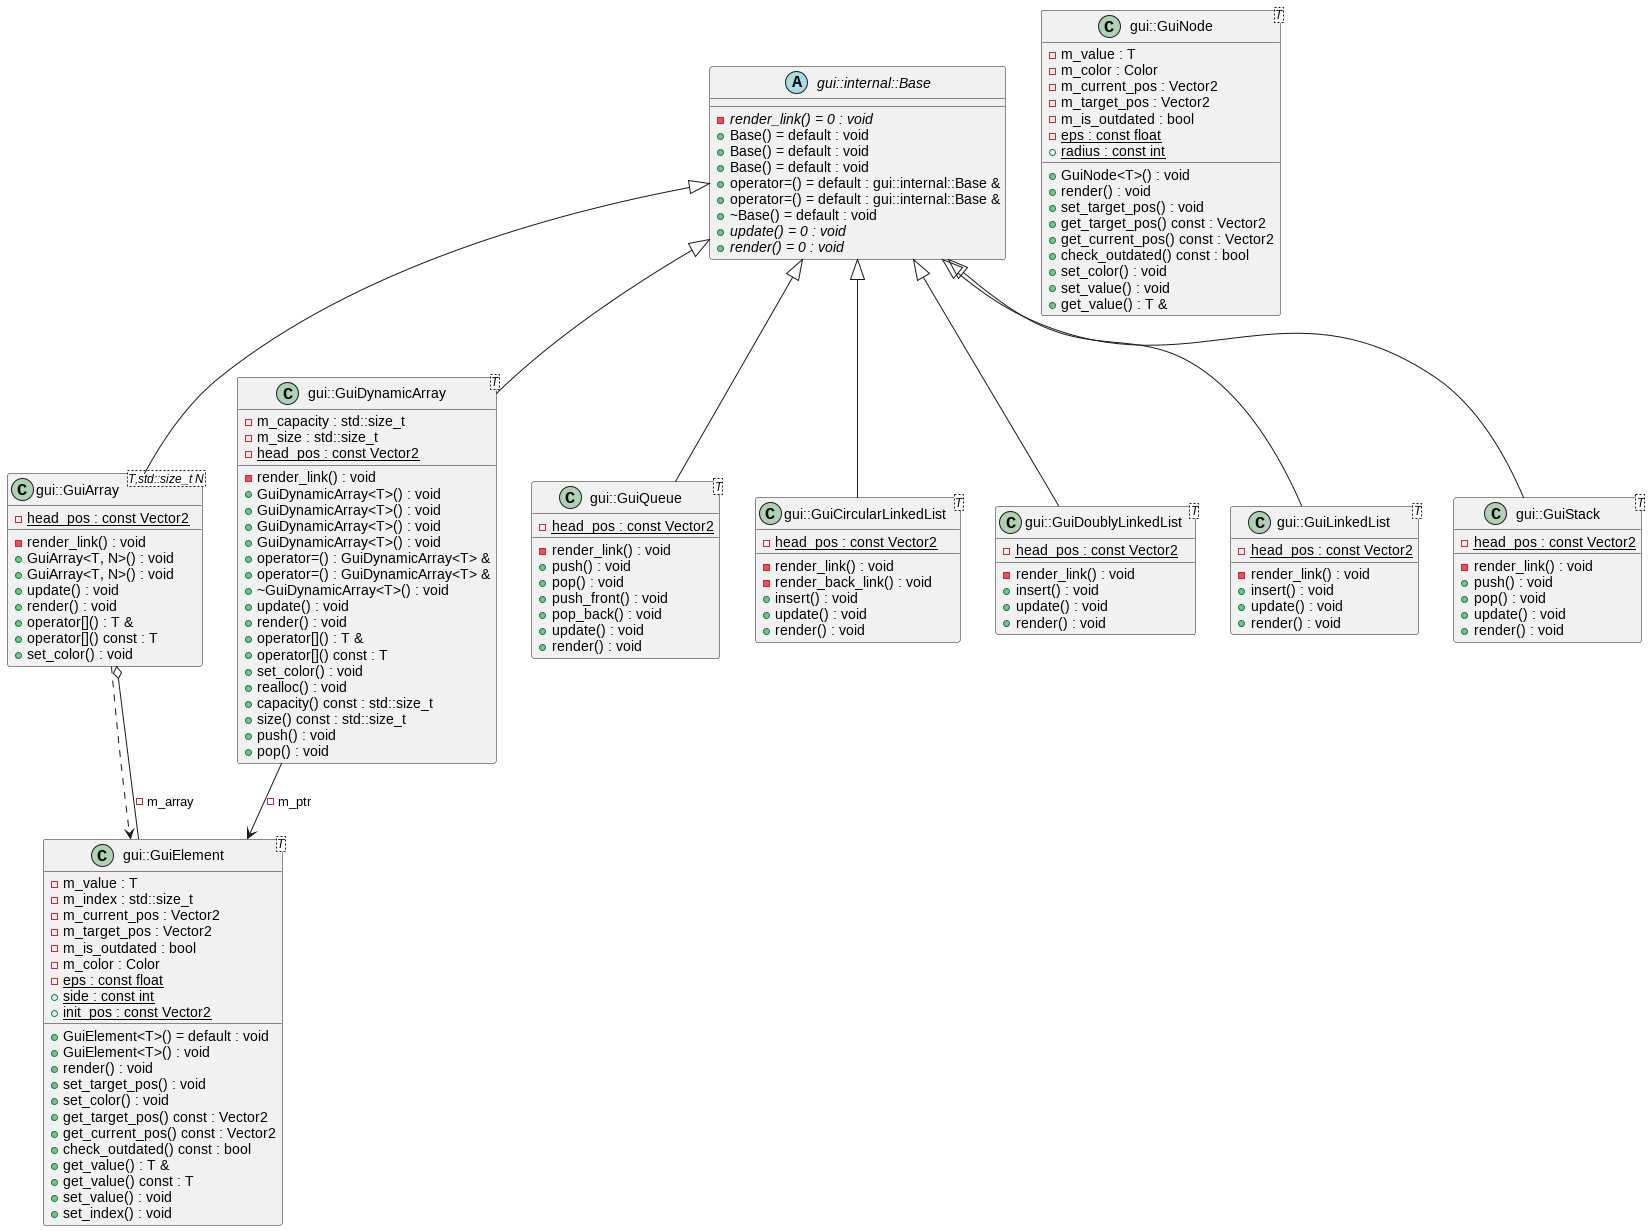
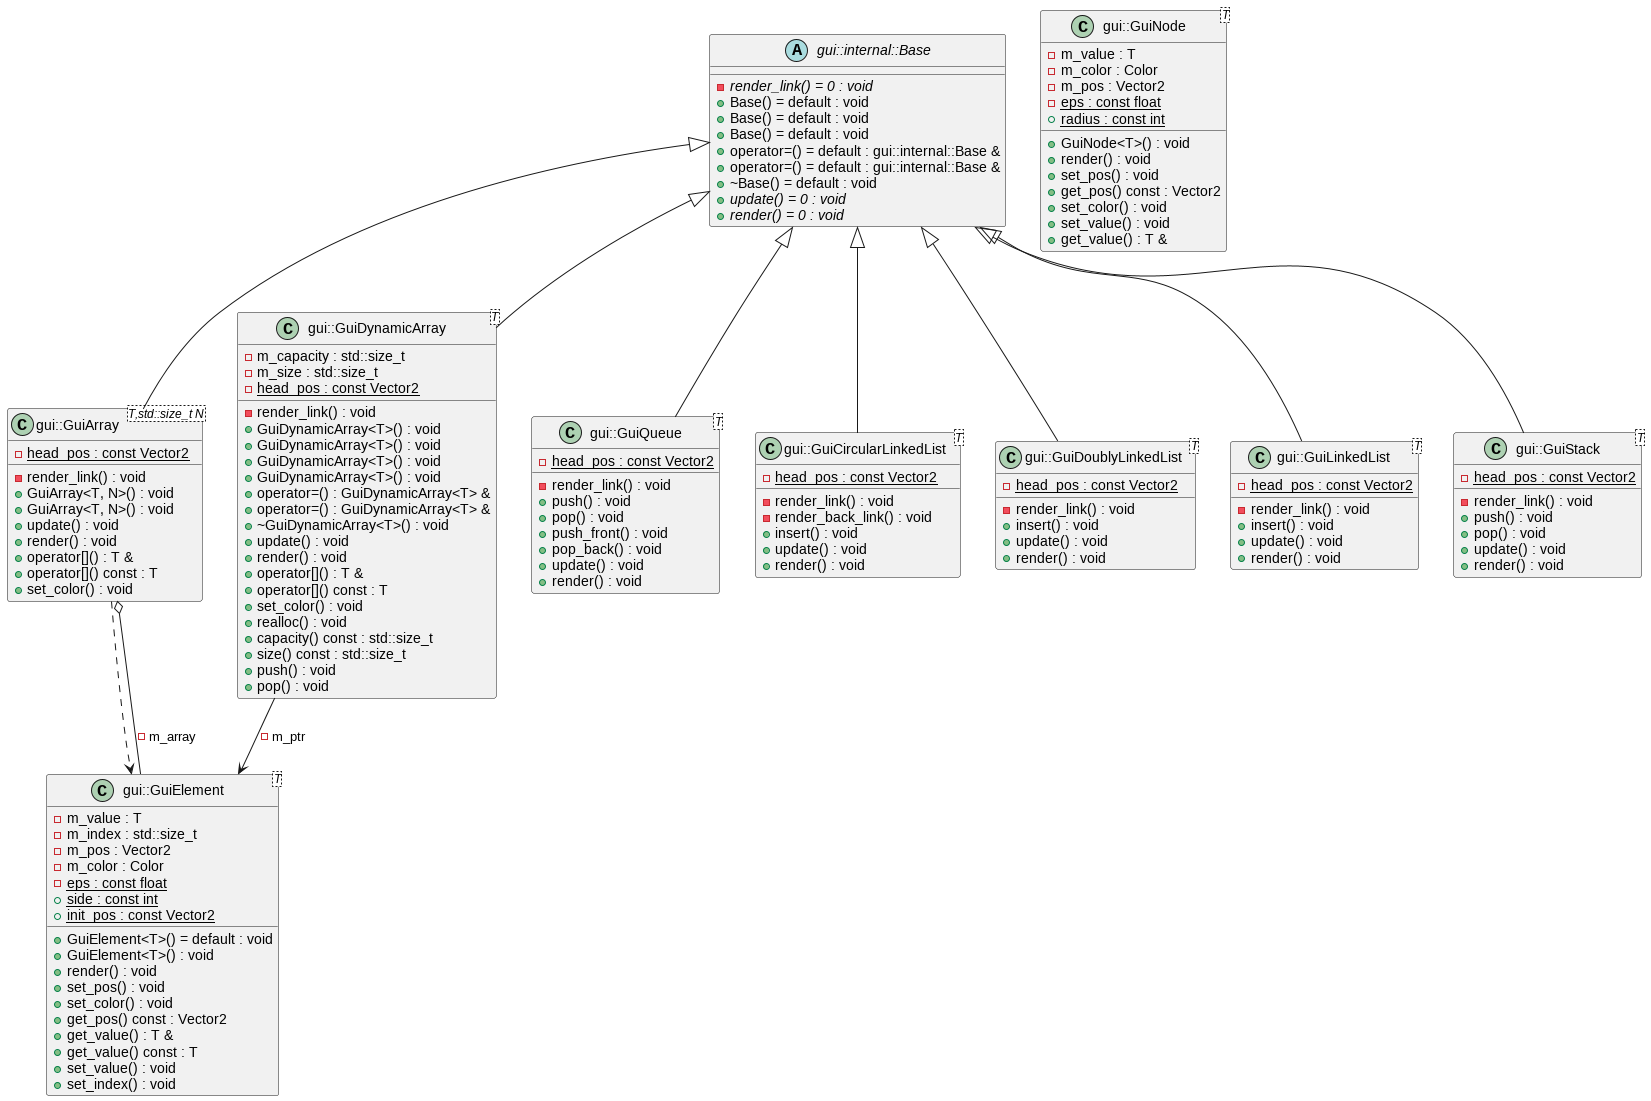
Remove deprecated feature

Changed region(s): [[0.0, 0.2779, 0.4325, 1.0], [0.4016, 0.0, 0.7723, 0.3088], [0.4634, 0.3706, 1.0, 0.525]]

diff --git a/src/gui/element_gui.hpp b/src/gui/element_gui.hpp
@@ -18,9 +18,7 @@ private:
     T m_value{};
     std::size_t m_index{};
 
-    Vector2 m_current_pos{init_pos};
-    Vector2 m_target_pos{};
-    bool m_is_outdated{false};
+    Vector2 m_pos{init_pos};
     static constexpr float eps = 1e-3;
     Color m_color{GRAY};
 
@@ -37,11 +35,9 @@ public:
     GuiElement(const T& value, std::size_t index);
 
     void render();
-    void set_target_pos(Vector2 pos);
+    void set_pos(Vector2 pos);
     void set_color(Color color);
-    [[nodiscard]] Vector2 get_target_pos() const;
-    [[nodiscard]] Vector2 get_current_pos() const;
-    [[nodiscard]] bool check_outdated() const;
+    [[nodiscard]] Vector2 get_pos() const;
 
     T& get_value();
     T get_value() const;
@@ -55,28 +51,6 @@ GuiElement<T>::GuiElement(const T& value, std::size_t index)
 
 template<typename T>
 void GuiElement<T>::render() {
-    // if (m_is_outdated) {
-    //     float diff_x = m_target_pos.x - m_current_pos.x;
-    //     float diff_y = m_target_pos.y - m_current_pos.y;
-
-    //     if (std::fabs(diff_x) < eps) {
-    //         diff_x = 0;
-    //     }
-
-    //     if (std::fabs(diff_y) < eps) {
-    //         diff_y = 0;
-    //     }
-
-    //     if (diff_x == 0 && diff_y == 0) {
-    //         m_is_outdated = false;
-    //     } else {
-    //         m_current_pos.x +=
-    //             diff_x / constants::frames_per_second * constants::ani_speed;
-    //         m_current_pos.y +=
-    //             diff_y / constants::frames_per_second * constants::ani_speed;
-    //     }
-    // }
-
     constexpr int label_font_size = 25;
     constexpr int label_font_spacing = 2;
     const std::string label = std::to_string(m_value);
@@ -85,17 +59,17 @@ void GuiElement<T>::render() {
     const Vector2 label_size =
         utils::MeasureText(label.c_str(), label_font_size, label_font_spacing);
 
-    const Vector2 label_pos{m_current_pos.x - label_size.x / 2,
-                            m_current_pos.y - label_size.y / 2};
+    const Vector2 label_pos{m_pos.x - label_size.x / 2,
+                            m_pos.y - label_size.y / 2};
 
     const Vector2 index_size =
         utils::MeasureText(index.c_str(), label_font_size, label_font_spacing);
 
-    const Vector2 index_pos{m_current_pos.x - index_size.x / 2,
-                            m_current_pos.y - 2 * side - index_size.y / 2};
+    const Vector2 index_pos{m_pos.x - index_size.x / 2,
+                            m_pos.y - 2 * side - index_size.y / 2};
 
-    DrawRectangle(m_current_pos.x - side,  // NOLINT
-                  m_current_pos.y - side,  // NOLINT
+    DrawRectangle(m_pos.x - side,  // NOLINT
+                  m_pos.y - side,  // NOLINT
                   2 * side, 2 * side, m_color);
 
     utils::DrawText(label.c_str(), label_pos, WHITE, label_font_size,
@@ -106,30 +80,13 @@ void GuiElement<T>::render() {
 }
 
 template<typename T>
-void GuiElement<T>::set_target_pos(Vector2 pos) {
-    // m_target_pos = pos;
-    // m_is_outdated = true;
-    m_current_pos = pos;
+void GuiElement<T>::set_pos(Vector2 pos) {
+    m_pos = pos;
 }
 
 template<typename T>
 void GuiElement<T>::set_color(Color color) {
     m_color = color;
-}
-
-template<typename T>
-Vector2 GuiElement<T>::get_target_pos() const {
-    return m_target_pos;
-}
-
-template<typename T>
-Vector2 GuiElement<T>::get_current_pos() const {
-    return m_current_pos;
-}
-
-template<typename T>
-bool GuiElement<T>::check_outdated() const {
-    return m_is_outdated;
 }
 
 template<typename T>

diff --git a/src/gui/node_gui.hpp b/src/gui/node_gui.hpp
@@ -17,13 +17,11 @@ private:
     T m_value{};
     Color m_color{BLACK};
 
-    Vector2 m_current_pos{constants::sidebar_width +
-                              static_cast<float>(constants::scene_width -
-                                                 constants::sidebar_width) /
-                                  2,
-                          0};
-    Vector2 m_target_pos{};
-    bool m_is_outdated{false};
+    Vector2 m_pos{constants::sidebar_width +
+                      static_cast<float>(constants::scene_width -
+                                         constants::sidebar_width) /
+                          2,
+                  0};
     static constexpr float eps = 1e-3;
 
 public:
@@ -32,10 +30,8 @@ public:
     explicit GuiNode(const T& value);
 
     void render();
-    void set_target_pos(Vector2 pos);
-    [[nodiscard]] Vector2 get_target_pos() const;
-    [[nodiscard]] Vector2 get_current_pos() const;
-    [[nodiscard]] bool check_outdated() const;
+    void set_pos(Vector2 pos);
+    [[nodiscard]] Vector2 get_pos() const;
     void set_color(Color color);
     void set_value(const T& value);
     T& get_value();
@@ -46,28 +42,6 @@ GuiNode<T>::GuiNode(const T& value) : m_value{value} {}
 
 template<typename T>
 void GuiNode<T>::render() {
-    // if (m_is_outdated) {
-    //     float diff_x = m_target_pos.x - m_current_pos.x;
-    //     float diff_y = m_target_pos.y - m_current_pos.y;
-
-    //     if (std::fabs(diff_x) < eps) {
-    //         diff_x = 0;
-    //     }
-
-    //     if (std::fabs(diff_y) < eps) {
-    //         diff_y = 0;
-    //     }
-
-    //     if (diff_x == 0 && diff_y == 0) {
-    //         m_is_outdated = false;
-    //     } else {
-    //         m_current_pos.x +=
-    //             diff_x / constants::frames_per_second * constants::ani_speed;
-    //         m_current_pos.y +=
-    //             diff_y / constants::frames_per_second * constants::ani_speed;
-    //     }
-    // }
-
     constexpr int label_font_size = 25;
     constexpr int label_font_spacing = 2;
     const std::string label = std::to_string(m_value);
@@ -75,10 +49,10 @@ void GuiNode<T>::render() {
     const Vector2 label_size =
         utils::MeasureText(label.c_str(), label_font_size, label_font_spacing);
 
-    const Vector2 label_pos{m_current_pos.x - label_size.x / 2,
-                            m_current_pos.y - label_size.y / 2};
+    const Vector2 label_pos{m_pos.x - label_size.x / 2,
+                            m_pos.y - label_size.y / 2};
 
-    DrawCircleV(m_current_pos, radius, m_color);
+    DrawCircleV(m_pos, radius, m_color);
     utils::DrawText(label.c_str(), label_pos, WHITE, label_font_size,
                     label_font_spacing);
 }
@@ -99,25 +73,13 @@ T& GuiNode<T>::get_value() {
 }
 
 template<typename T>
-void GuiNode<T>::set_target_pos(Vector2 pos) {
-    // m_target_pos = pos;
-    // m_is_outdated = true;
-    m_current_pos = pos;
+void GuiNode<T>::set_pos(Vector2 pos) {
+    m_pos = pos;
 }
 
 template<typename T>
-Vector2 GuiNode<T>::get_target_pos() const {
-    return m_target_pos;
-}
-
-template<typename T>
-Vector2 GuiNode<T>::get_current_pos() const {
-    return m_current_pos;
-}
-
-template<typename T>
-bool GuiNode<T>::check_outdated() const {
-    return m_is_outdated;
+Vector2 GuiNode<T>::get_pos() const {
+    return m_pos;
 }
 
 }  // namespace gui

diff --git a/src/gui/circular_linked_list_gui.hpp b/src/gui/circular_linked_list_gui.hpp
@@ -72,8 +72,8 @@ void GuiCircularLinkedList<T>::render_link(Vector2 src, Vector2 dest) {
 template<typename T>
 void GuiCircularLinkedList<T>::render_back_link() {
     constexpr int num_points = 5;
-    const Vector2 head_pos = m_head->data.get_current_pos();
-    const Vector2 tail_pos = m_tail->data.get_current_pos();
+    const Vector2 head_pos = m_head->data.get_pos();
+    const Vector2 tail_pos = m_tail->data.get_pos();
     constexpr int radius = GuiNode<T>::radius;
     constexpr float scaled_len = radius / 8.0F;
 
@@ -102,8 +102,7 @@ void GuiCircularLinkedList<T>::render() {
     render_back_link();
     for (auto* ptr = m_head; ptr != nullptr; ptr = ptr->next) {
         if (ptr->next != nullptr) {
-            render_link(ptr->data.get_current_pos(),
-                        ptr->next->data.get_current_pos());
+            render_link(ptr->data.get_pos(), ptr->next->data.get_pos());
         }
 
         ptr->data.render();
@@ -117,7 +116,7 @@ void GuiCircularLinkedList<T>::update() {
     std::size_t pos = 0;
 
     for (auto* ptr = m_head; ptr != nullptr; ptr = ptr->next) {
-        ptr->data.set_target_pos(
+        ptr->data.set_pos(
             {head_pos.x + 4 * GuiNode<T>::radius * pos, head_pos.y});
         ++pos;
     }

diff --git a/src/gui/doubly_linked_list_gui.hpp b/src/gui/doubly_linked_list_gui.hpp
@@ -80,8 +80,7 @@ void GuiDoublyLinkedList<T>::render() {
 
     for (auto* ptr = m_head; ptr != nullptr; ptr = ptr->next) {
         if (ptr->next != nullptr) {
-            render_link(ptr->data.get_current_pos(),
-                        ptr->next->data.get_current_pos());
+            render_link(ptr->data.get_pos(), ptr->next->data.get_pos());
         }
 
         ptr->data.render();
@@ -95,7 +94,7 @@ void GuiDoublyLinkedList<T>::update() {
     std::size_t pos = 0;
 
     for (auto* ptr = m_head; ptr != nullptr; ptr = ptr->next) {
-        ptr->data.set_target_pos(
+        ptr->data.set_pos(
             {head_pos.x + 4 * GuiNode<T>::radius * pos, head_pos.y});
         ++pos;
     }

diff --git a/src/gui/linked_list_gui.hpp b/src/gui/linked_list_gui.hpp
@@ -72,8 +72,7 @@ void GuiLinkedList<T>::render() {
 
     for (auto* ptr = m_head; ptr != nullptr; ptr = ptr->next) {
         if (ptr->next != nullptr) {
-            render_link(ptr->data.get_current_pos(),
-                        ptr->next->data.get_current_pos());
+            render_link(ptr->data.get_pos(), ptr->next->data.get_pos());
         }
 
         ptr->data.render();
@@ -87,7 +86,7 @@ void GuiLinkedList<T>::update() {
     std::size_t pos = 0;
 
     for (auto* ptr = m_head; ptr != nullptr; ptr = ptr->next) {
-        ptr->data.set_target_pos(
+        ptr->data.set_pos(
             {head_pos.x + 4 * GuiNode<T>::radius * pos, head_pos.y});
         ++pos;
     }

diff --git a/src/gui/queue_gui.hpp b/src/gui/queue_gui.hpp
@@ -91,8 +91,7 @@ void GuiQueue<T>::render() {
 
     for (auto* ptr = m_head; ptr != nullptr; ptr = ptr->next) {
         if (ptr->next != nullptr) {
-            render_link(ptr->data.get_current_pos(),
-                        ptr->next->data.get_current_pos());
+            render_link(ptr->data.get_pos(), ptr->next->data.get_pos());
         }
 
         ptr->data.render();
@@ -106,7 +105,7 @@ void GuiQueue<T>::update() {
     std::size_t pos = 0;
 
     for (auto* ptr = m_head; ptr != nullptr; ptr = ptr->next) {
-        ptr->data.set_target_pos(
+        ptr->data.set_pos(
             {head_pos.x + 4 * GuiNode<T>::radius * pos, head_pos.y});
         ++pos;
     }

diff --git a/src/gui/stack_gui.hpp b/src/gui/stack_gui.hpp
@@ -77,8 +77,7 @@ void GuiStack<T>::render() {
 
     for (auto* ptr = m_head; ptr != nullptr; ptr = ptr->next) {
         if (ptr->next != nullptr) {
-            render_link(ptr->data.get_current_pos(),
-                        ptr->next->data.get_current_pos());
+            render_link(ptr->data.get_pos(), ptr->next->data.get_pos());
         }
 
         ptr->data.render();
@@ -92,7 +91,7 @@ void GuiStack<T>::update() {
     std::size_t pos = 0;
 
     for (auto* ptr = m_head; ptr != nullptr; ptr = ptr->next) {
-        ptr->data.set_target_pos(
+        ptr->data.set_pos(
             {head_pos.x, head_pos.y + 4 * GuiNode<T>::radius * pos});
         ++pos;
     }

diff --git a/src/gui/dynamic_array_gui.hpp b/src/gui/dynamic_array_gui.hpp
@@ -164,7 +164,7 @@ void GuiDynamicArray<T>::update() {
     // TODO: if not outdated then return
 
     for (std::size_t i = 0; i < m_capacity; ++i) {
-        m_ptr[i].set_target_pos(
+        m_ptr[i].set_pos(
             {head_pos.x + 4 * GuiElement<T>::side * i, head_pos.y});
     }
 }

diff --git a/src/gui/array_gui.hpp b/src/gui/array_gui.hpp
@@ -65,7 +65,7 @@ void GuiArray<T, N>::update() {
     // TODO: if not outdated then return
 
     for (std::size_t i = 0; i < N; ++i) {
-        m_array[i].set_target_pos(
+        m_array[i].set_pos(
             {head_pos.x + 4 * GuiElement<T>::side * i, head_pos.y});
     }
 }
